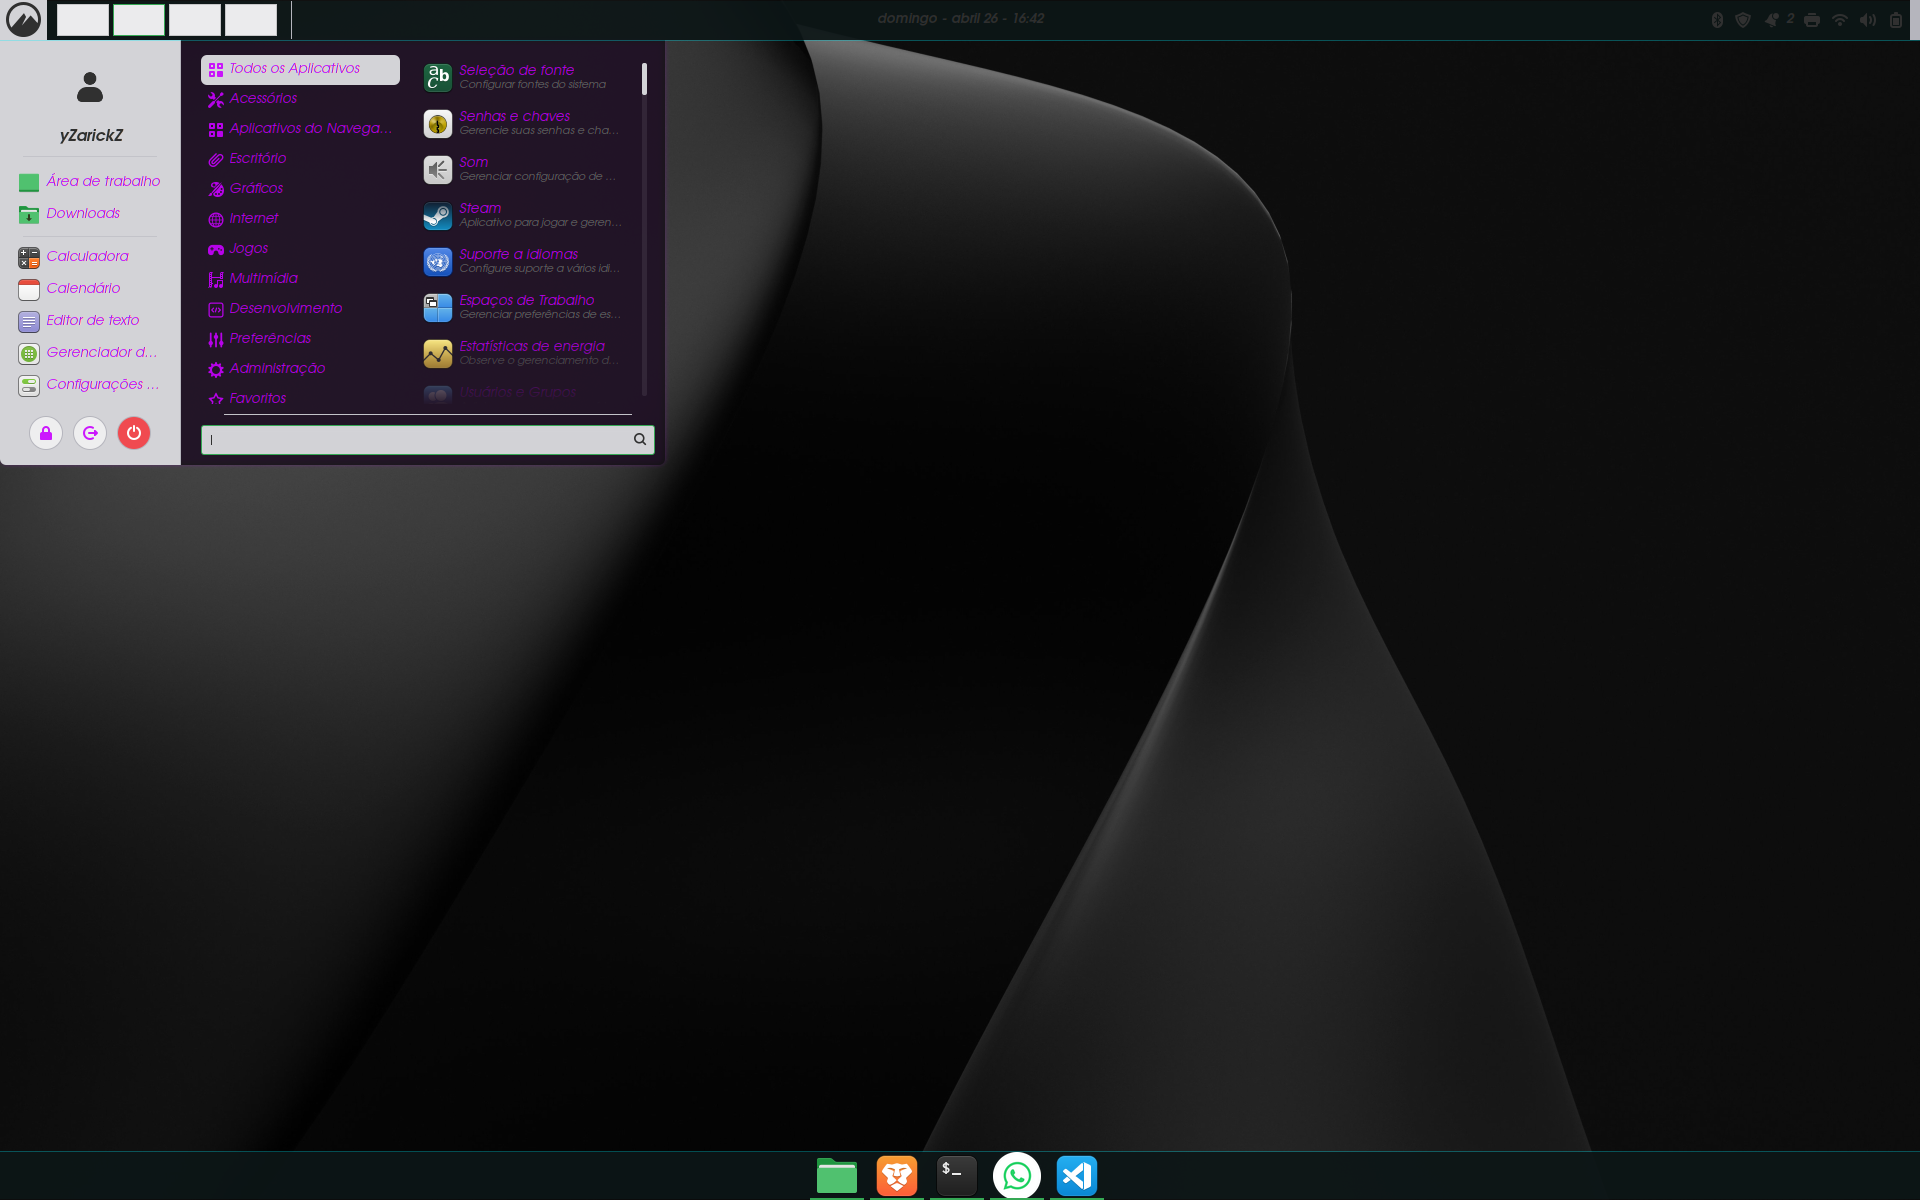
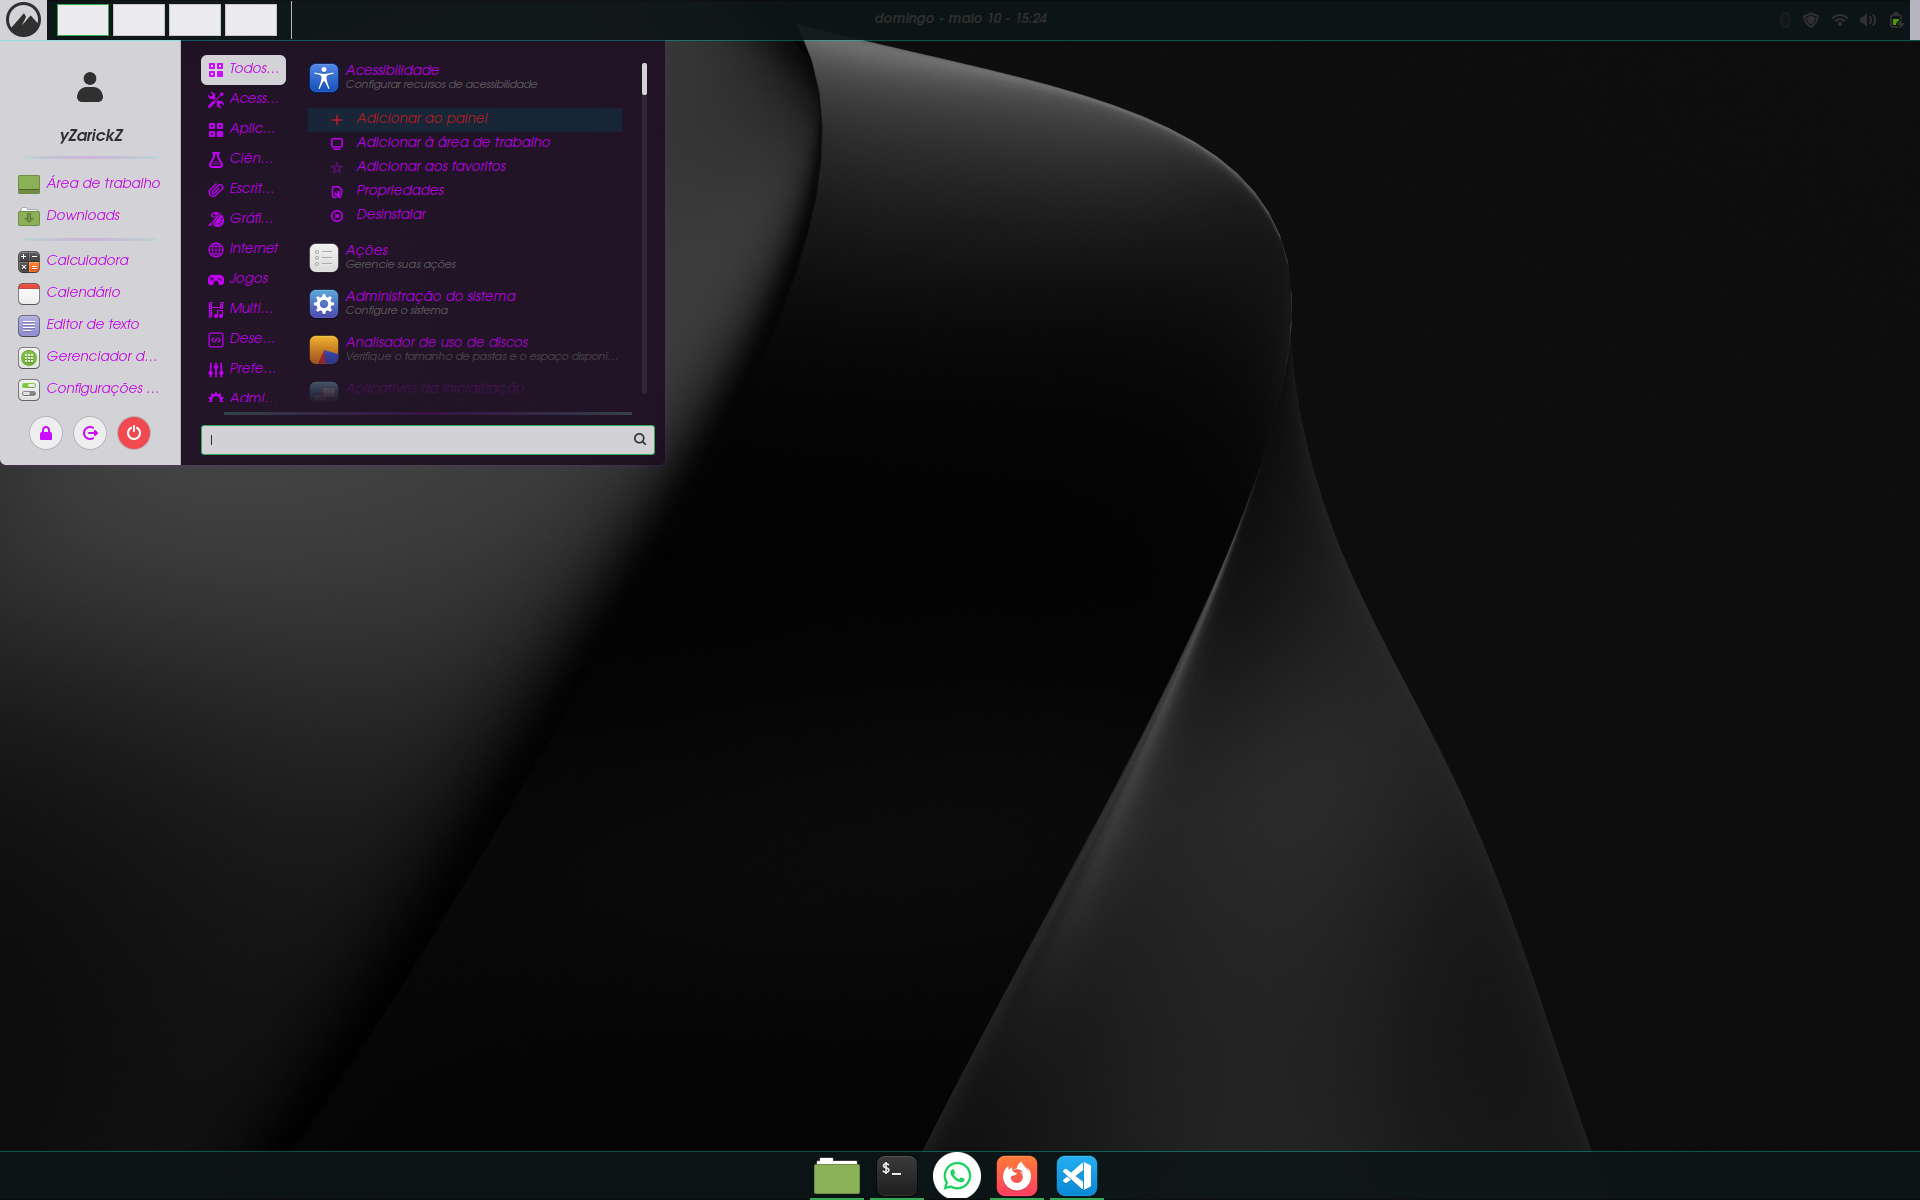
feat(menu) finaliza primeira versão visual do submenu

Changed region(s): [[0.0, 0.0308, 0.3125, 0.3392], [0.4062, 0.9558, 0.5625, 1.0], [0.5, 0.0, 0.5312, 0.0308]]

diff --git a/cinnamon/cinnamon.css b/cinnamon/cinnamon.css
@@ -291,7 +291,7 @@ StScrollBar {
 
 .popup-menu-item:insensitive {
   color: rgba(48, 48, 48, 0.5);
-  background: rgba(63, 26, 90, 0.329); }
+  background: none; }
 
 .popup-inactive-menu-item {
   color: rgba(0, 240, 255, 0.35); }
@@ -301,10 +301,10 @@ StScrollBar {
 
 /*Scale view context menu*/
 .popup-combo-menu {
-  color: #303030;
-  border: 1px solid #b5b5bd;
+  color: rebeccapurple;
+  border: 1px solid rgba(189, 0, 255, 0.25);
   border-radius: 3px;
-  background-color: #d3d3d7;
+  background-color: rgba(189, 0, 255, 0.25);
   box-shadow: none;
   padding: 1em 0em 1em 0em; }
 
@@ -316,11 +316,11 @@ StScrollBar {
   border-right-width: 0; }
 
 .popup-separator-menu-item {
-  -gradient-height: 1px;
-  -gradient-start: #c3c3c9;
-  -gradient-end: #c3c3c9;
+  -gradient-height: 3px;
+  -gradient-start: rgba(112, 224, 196, 0.226);
+  -gradient-end: rgba(165, 14, 211, 0.164);
   -margin-horizontal: 0;
-  height: 1px; }
+  height: 3px; }
 
 .popup-alternating-menu-item:alternate {
   font-weight: normal; }
@@ -328,13 +328,15 @@ StScrollBar {
 .popup-device-menu-item {
   spacing: .5em;
   font-weight: bold;
-  color: #303030; }
-  .popup-device-menu-item:insensitive {
-    color: #303030;
-    spacing: 1em; }
-  .popup-device-menu-item .popup-inactive-menu-item {
-    font-weight: normal;
-    color: #303030; }
+  color: rgba(117, 200, 238, 0.9); }
+
+.popup-device-menu-item:insensitive {
+  color: rgba(185, 47, 63, 0.87);
+  spacing: 1em; }
+
+.popup-device-menu-item .popup-inactive-menu-item {
+  font-weight: normal;
+  color: rgba(117, 200, 238, 0.9); }
 
 .popup-subtitle-menu-item {
   font-weight: normal; }

diff --git a/README.md b/README.md
@@ -1,18 +1,32 @@
-#  Noctyra
+# Noctyra
 
-Tema personalizado para Linux Mint Cinnamon.
+Tema personalizado para Linux Mint Cinnamon inspirado em estética cyberpunk e gótica.
 
-## Objetivo
-Aprender personalização de temas e CSS no Cinnamon
+O objetivo do projeto é aprender personalização de temas no Cinnamon, CSS, Git/GitHub e desenvolvimento de identidade visual para desktop Linux.
 
-## Progresso
+---
+
+## ✨ Características atuais
 
 - Painel customizado
-- Menu em desenvolvimento
+- Menu personalizado
+- Submenus refinados
+- Paleta neon ciano/roxo
+- Transparência suave para uso noturno
 
-## Instalação
-Copie para ~/.themes
+---
 
+## 📦 Instalação
+
+Copie a pasta do tema para:
+
+```bash
+~/.themes
+```
+
+Depois selecione o tema nas configurações do Cinnamon.
+
+---
 
 ## 🚧 Desenvolvimento Atual
 
@@ -22,18 +36,38 @@ Copie para ~/.themes
 ### Desktop (Preview)
 ![Desktop](assets/screenshots/desktop-v1.png)
 
-### Menu (em desenvolvimento)
+### Menu principal
 ![Menu](assets/screenshots/menu-v1.png)
+
+### Submenu refinado
+![Submenu](assets/screenshots/submenu-v1.png)
+
+---
 
 ## 📌 Roadmap
 
 - [x] Personalização do painel
-- [ ] Estilização completa do menu
-- [ ] Ajustes de cores globais
+- [x] Primeira versão do menu
+- [x] Refinamento visual do submenu
+- [ ] Ajustes globais de GTK
+- [ ] Melhorias em notificações e popups
 - [ ] Ícones personalizados
+- [ ] Refinamento visual geral
 
-## Ferramentas usadas
+---
+
+## 🛠 Ferramentas usadas
+
 - Linux Mint Cinnamon
 - Visual Studio Code
 - Git e GitHub
-- CSS para personalização do tema
+- CSS
+- Bash/Linux Terminal
+
+---
+
+## 🎨 Conceito visual
+
+Noctyra mistura estética gótica e cyberpunk utilizando tons escuros, transparência suave e detalhes neon em roxo e ciano.
+
+O projeto busca conforto visual para uso noturno sem perder identidade visual forte.